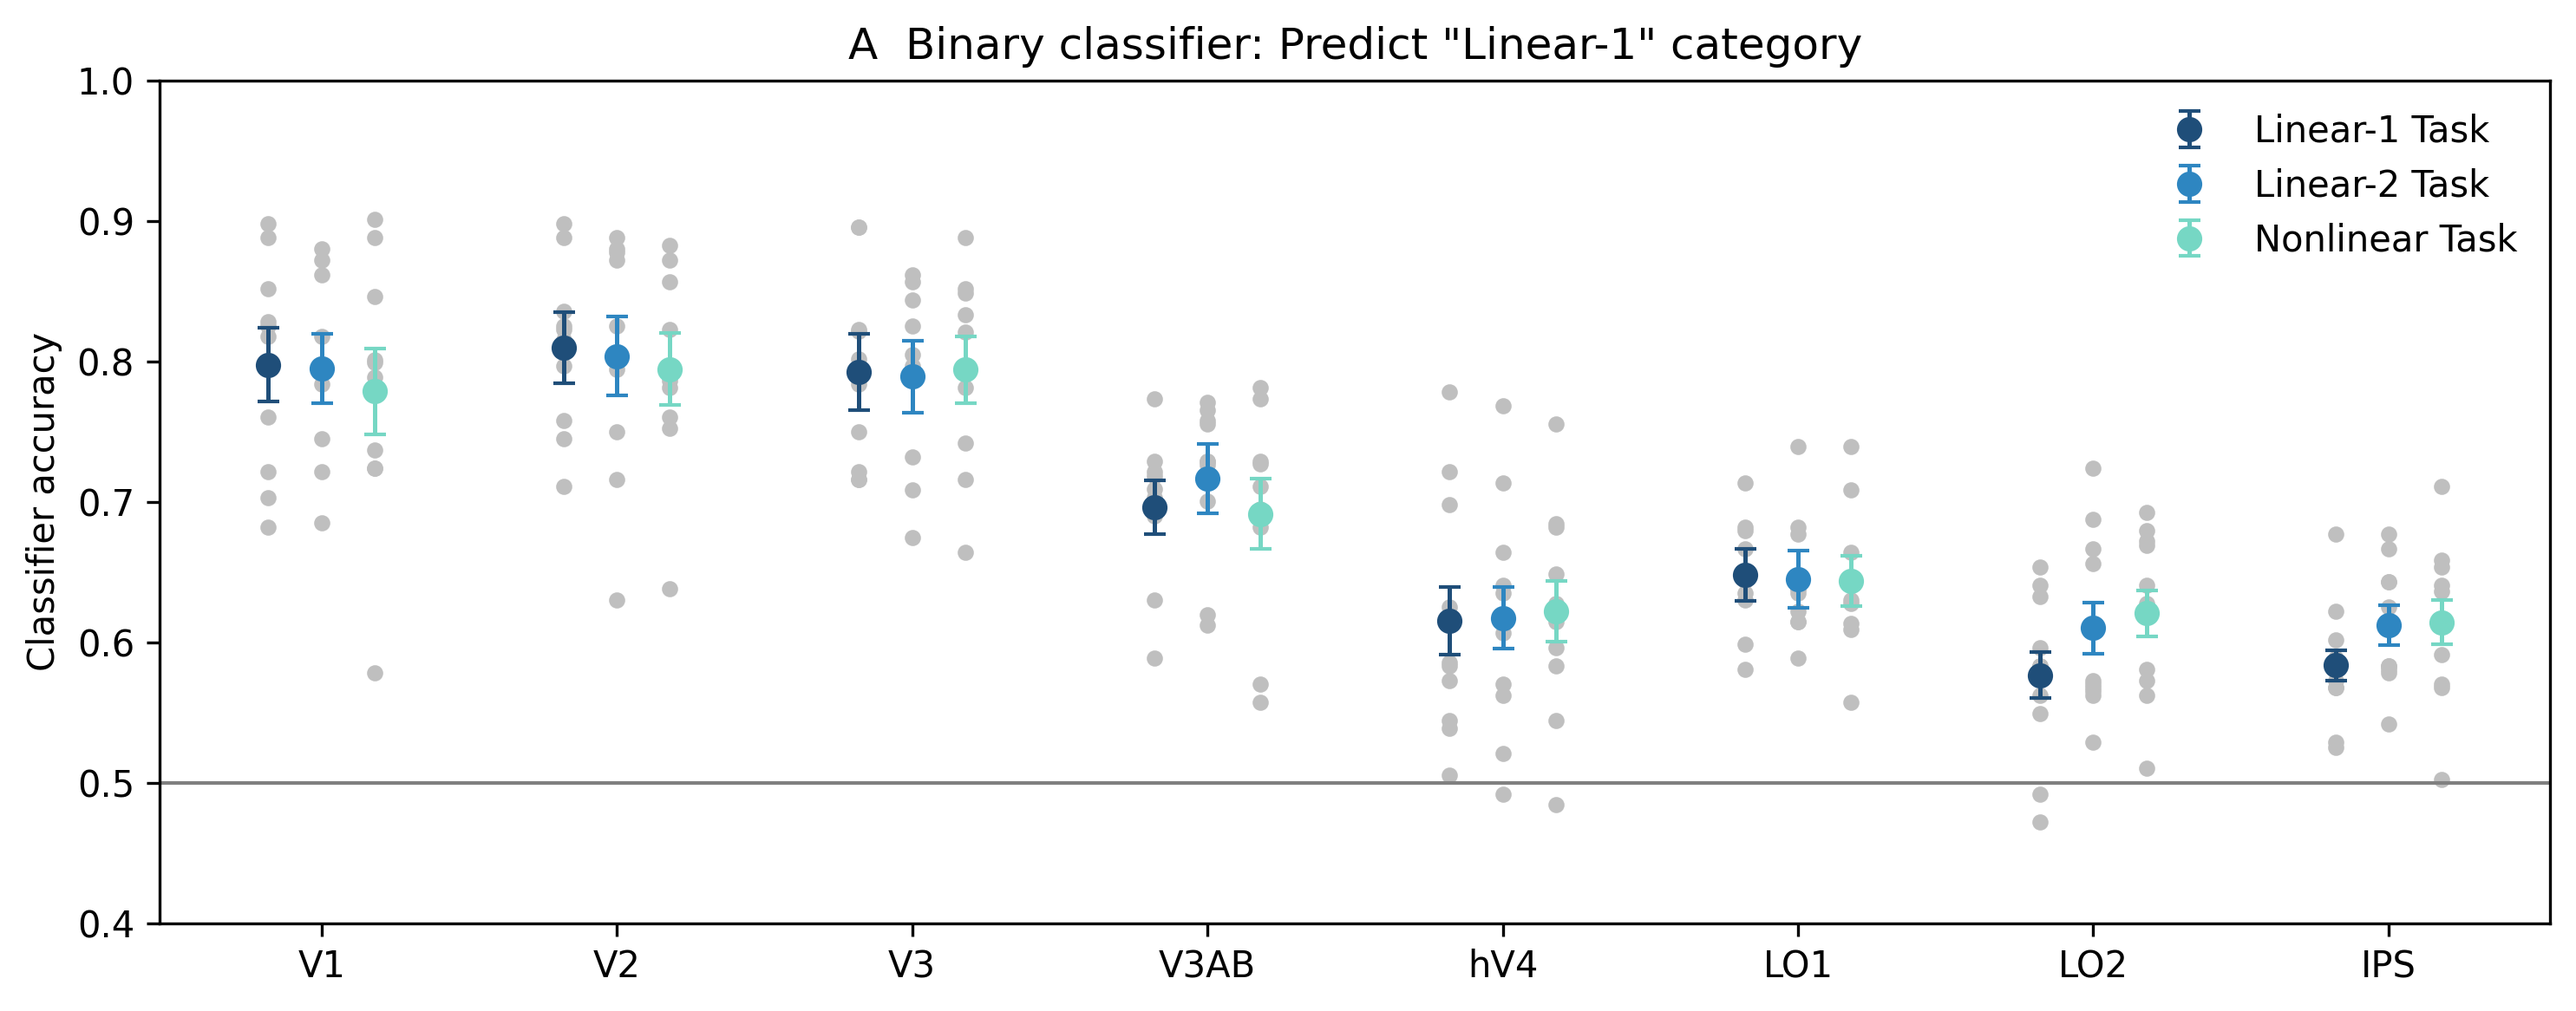
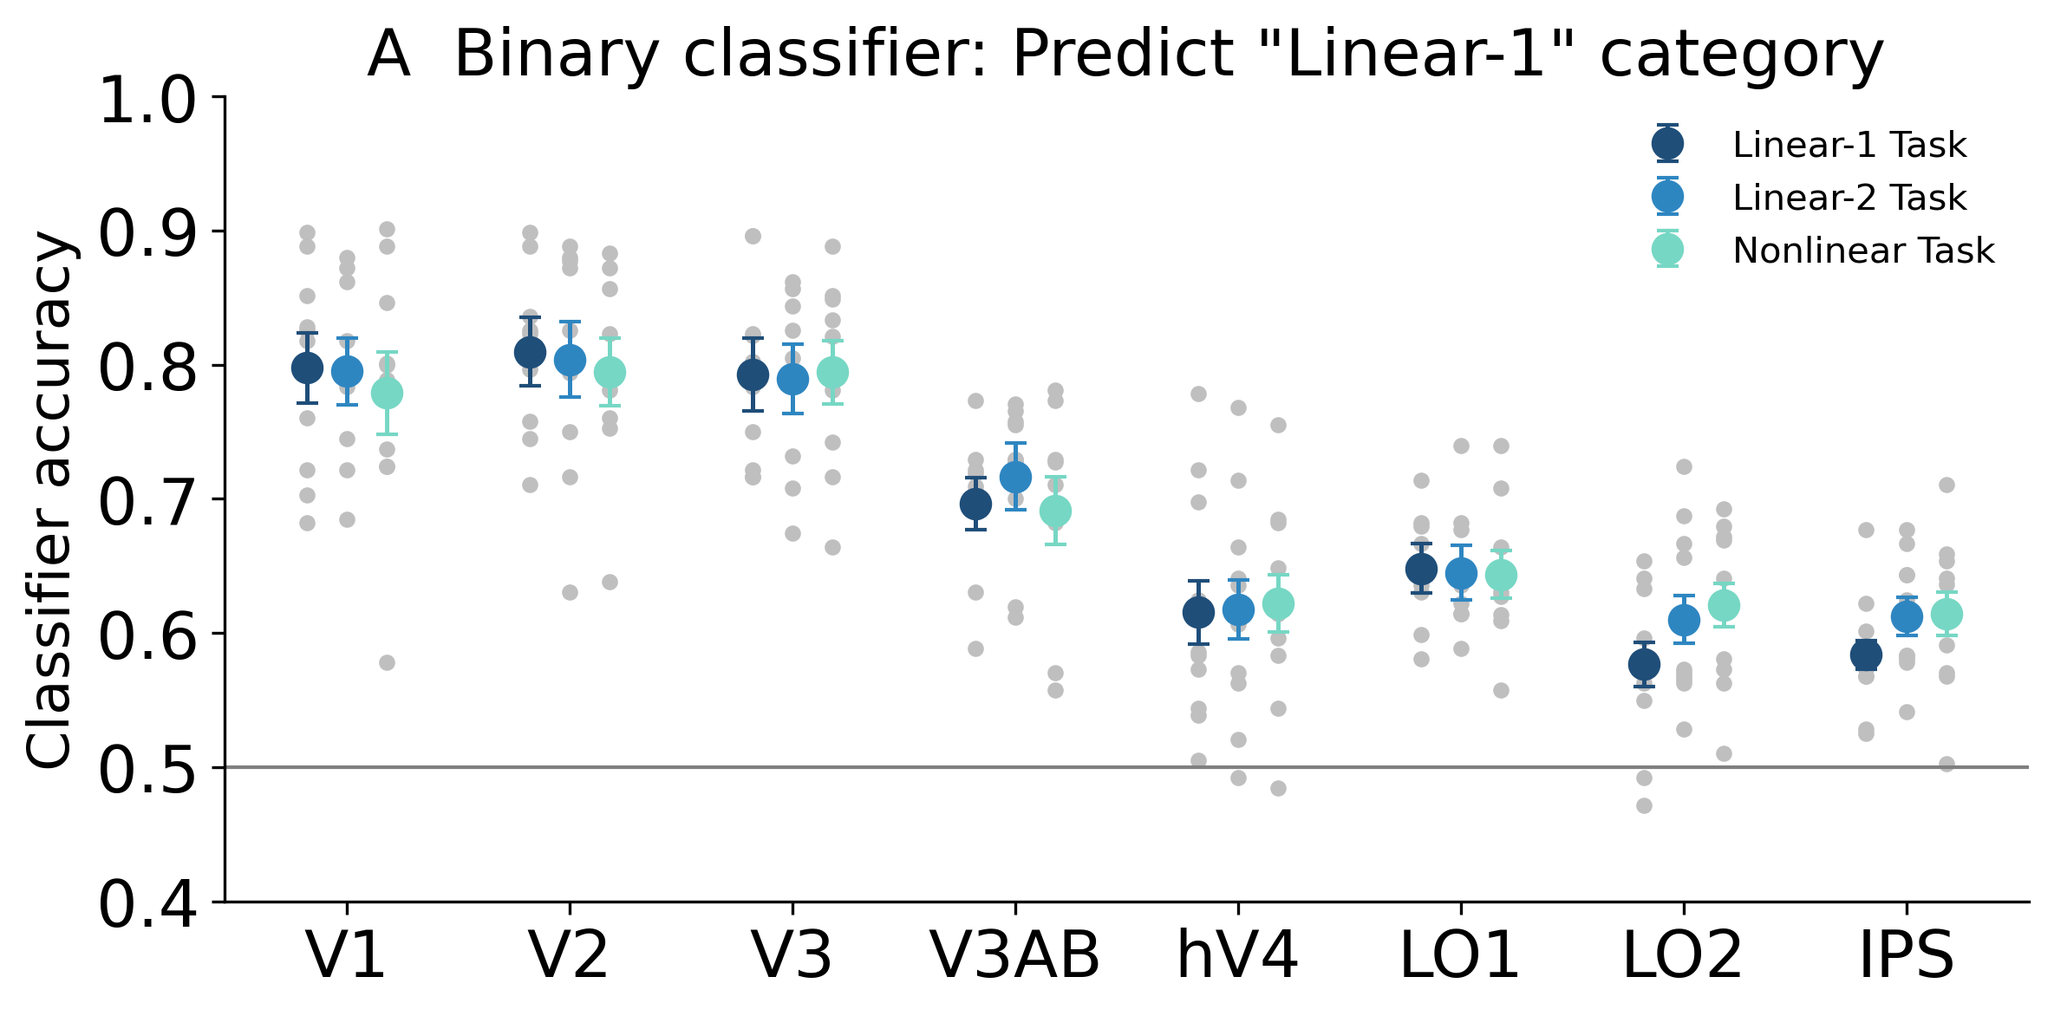
making changes to figs binary decoding acc

diff --git a/decoding_reproducibility/reproducing_decoding_anova_result.py b/decoding_reproducibility/reproducing_decoding_anova_result.py
@@ -491,7 +491,7 @@ panels = [
 def plot_panel(boundary, title):
     df_b = acc_long_fig2.query("Boundary == @boundary and Task in @task_order").copy()
 
-    fig, ax = plt.subplots(figsize=(10, 4))
+    fig, ax = plt.subplots(figsize=(8, 4))
     ax.axhline(chance_y, color='gray', linewidth=1.0)
 
     x_base = np.arange(len(roi_order))
@@ -512,16 +512,19 @@ def plot_panel(boundary, title):
 
         ax.errorbar(
             x, means, yerr=errors,
-            fmt='o', markersize=6, capsize=3, linewidth=1.2,
+            fmt='o', markersize=8, capsize=3, linewidth=1.2,
             color=task_colors[task], ecolor=task_colors[task],
             label=task_labels[task], zorder=3
         )
 
     ax.set_xticks(x_base)
-    ax.set_xticklabels(roi_order)
+    ax.set_xticklabels(roi_order, fontsize=18)
     ax.set_ylim(0.4, 1.0)
-    ax.set_ylabel('Classifier accuracy')
-    ax.set_title(title)
+    ax.tick_params(axis='y', labelsize=18)
+    ax.set_ylabel('Classifier accuracy', fontsize=16)
+    ax.set_title(title, fontsize=18)
+    ax.spines["top"].set_visible(False)
+    ax.spines["right"].set_visible(False)
 
     ax.legend(frameon=False, loc='upper right')
     fig.tight_layout()
